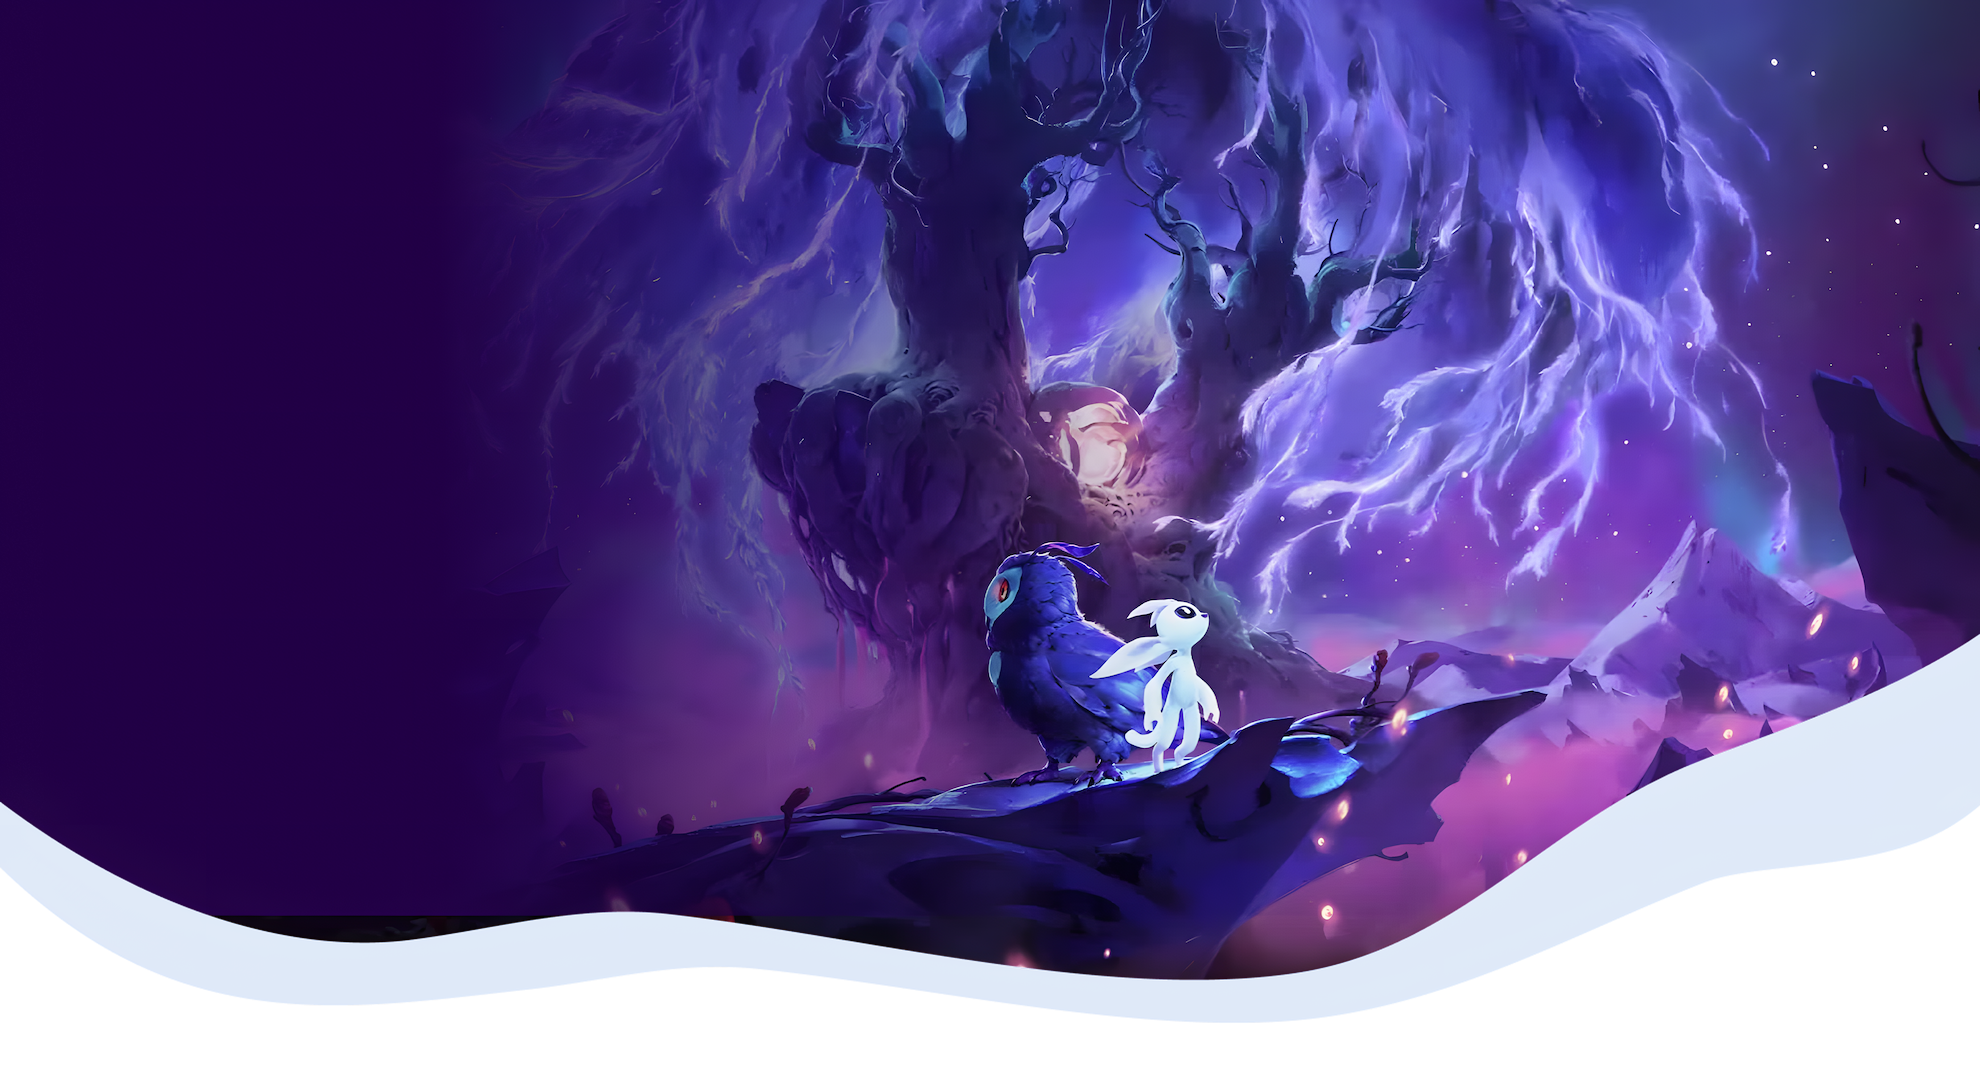
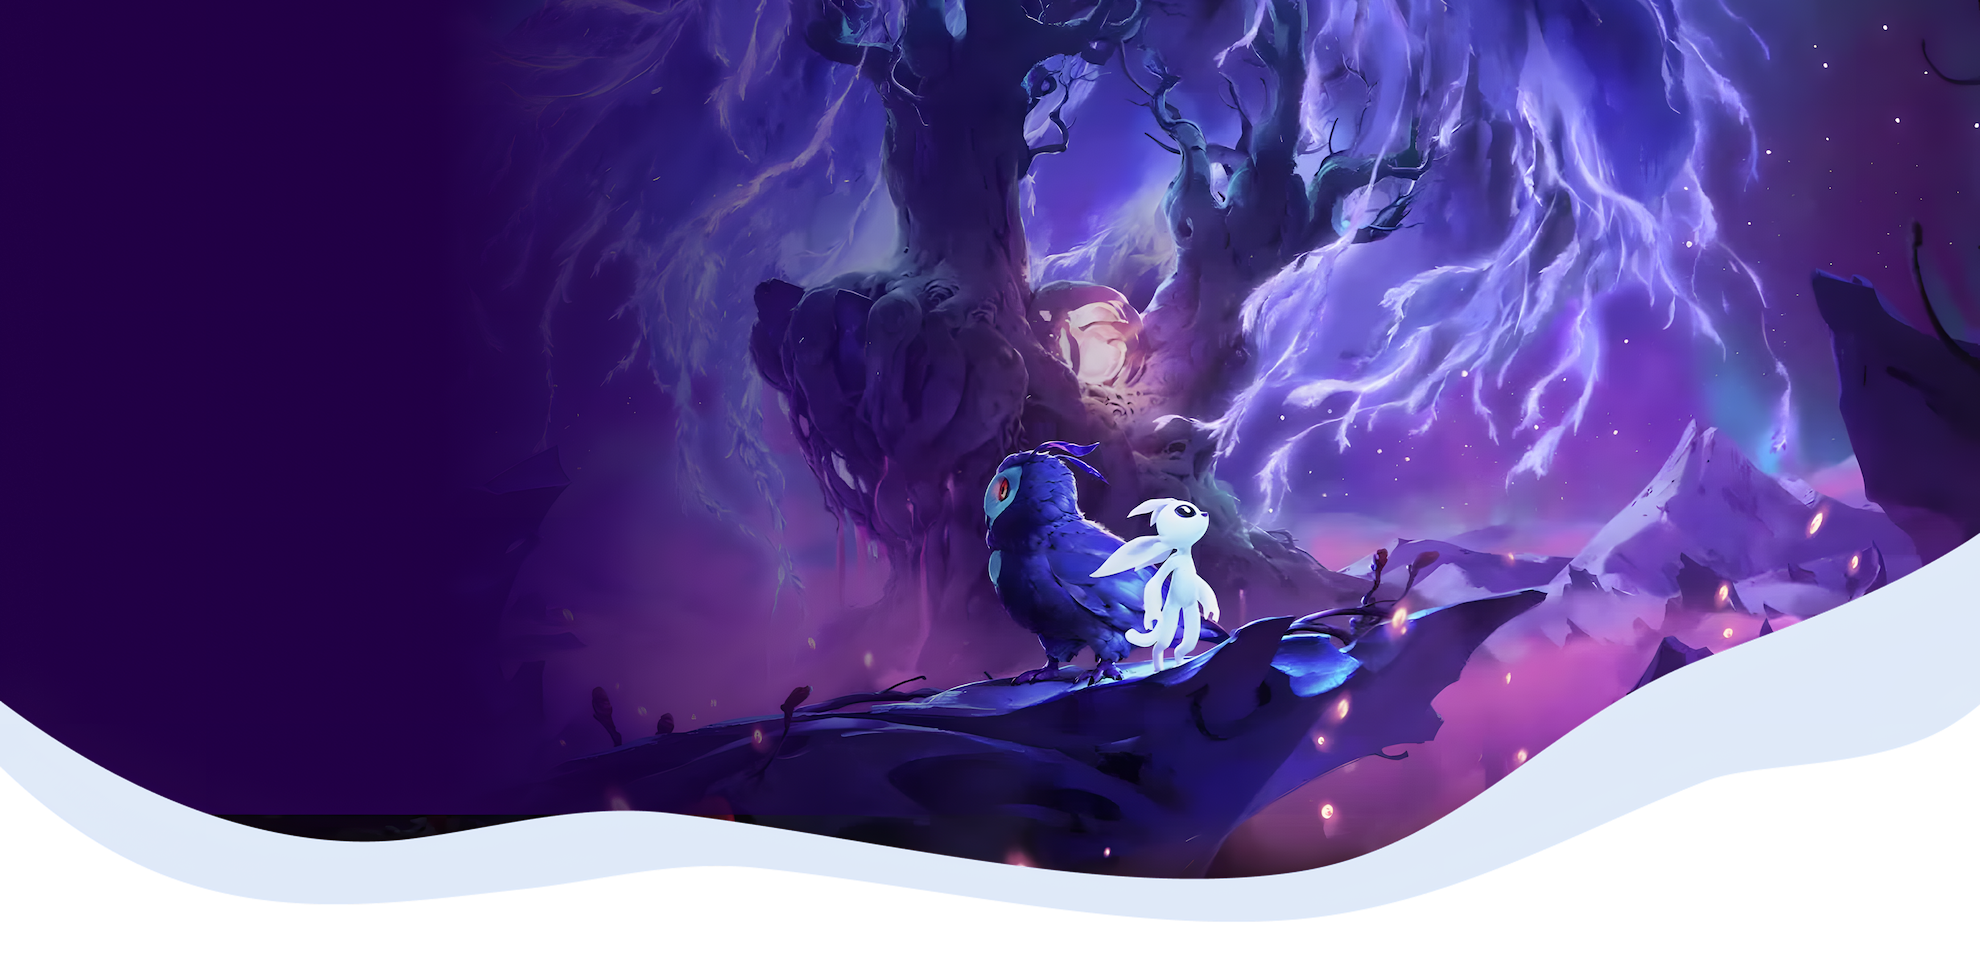
Slider new logic

diff --git a/components/Hero/hero.jsx b/components/Hero/hero.jsx
@@ -1,14 +1,16 @@
 "use client";
-// Import Swiper React components
-import { useState } from "react";
+import Image from "next/image";
 import { Swiper, SwiperSlide } from "swiper/react";
 import { Navigation, Autoplay, A11y } from "swiper/modules";
 import styles from "./hero.module.scss";
 
-// Import Swiper styles
 import "swiper/css";
 import "swiper/css/pagination";
 import "swiper/css/navigation";
+
+import image1 from "../../public/image-bg1.png";
+import image2 from "../../public/image-bg2.png";
+import image3 from "../../public/image-bg3.png";
 
 const Hero = () => {
   const buttons = () => {
@@ -41,6 +43,12 @@ const Hero = () => {
         >
           <SwiperSlide>
             <div className={`${styles.slide} ${styles.slide_first}`}>
+              <Image
+                src={image1}
+                alt="Ori"
+                placeholder="blur"
+                className={`${styles.image} `}
+              />
               <div className={styles.thumb}>
                 <h1 className={styles.title}>
                   STAN’S ASSETS - IT OUTSOURCING DEVELOPMENT COMPANY
@@ -62,6 +70,12 @@ const Hero = () => {
           </SwiperSlide>
           <SwiperSlide>
             <div className={`${styles.slide} ${styles.slide_second}`}>
+              <Image
+                src={image2}
+                alt="Tin Hearts"
+                className={styles.image}
+                placeholder="blur"
+              />
               <div className={styles.thumb}>
                 <h2 className={styles.title}>
                   FOCUS ON THE PRODUCT AND LET US DO THE REST!
@@ -85,6 +99,12 @@ const Hero = () => {
           </SwiperSlide>
           <SwiperSlide>
             <div className={`${styles.slide} ${styles.slide_third}`}>
+              <Image
+                src={image3}
+                alt="Stickman"
+                className={styles.image}
+                placeholder="blur"
+              />
               <div className={styles.thumb}>
                 <h2 className={styles.title}>
                   PRODUCT PERFECTION MADE EASY - STAN’S ASSETS, YOUR OUTSOURCING

diff --git a/src/app/page.jsx b/src/app/page.jsx
@@ -3,6 +3,7 @@ import Hero from "../../components/Hero/hero";
 import Technologies from "../../components/Technologies/technologies";
 import Services from "../../components/Services/services";
 import Looking from "../../components/Looking/looking";
+import Achievements from "../../components/Achievements/achievements";
 
 const Home = () => {
   return (
@@ -14,6 +15,7 @@ const Home = () => {
       <Technologies />
       <Services />
       <Looking />
+      <Achievements />
     </>
   );
 };

diff --git a/components/Hero/hero.module.scss b/components/Hero/hero.module.scss
@@ -3,6 +3,7 @@
 
 .hero {
   height: 940px;
+
   @extend %no-padding;
 }
 
@@ -24,16 +25,16 @@
   background-size: cover;
 }
 
-.slide_first {
-  background-image: url("../../public/image-bg1.png");
+.image {
+  position: absolute;
+  top: 0;
+  left: 0;
+
+  z-index: -1;
 }
 
-.slide_second {
-  background-image: url("../../public/image-bg2.png");
-}
-
-.slide_third {
-  background-image: url("../../public/image-bg3.png");
+.big_image {
+  top: -60px;
 }
 
 .thumb {

diff --git a/components/Achievements/achievements.jsx b/components/Achievements/achievements.jsx
@@ -1,0 +1,19 @@
+import Image from "next/image";
+
+const Achievements = () => {
+  return (
+    <section>
+      <div>
+        <h3>ACHIEVEMENTS</h3>
+        <ul>
+          <li><></></li>
+          <li></li>
+          <li></li>
+          <li></li>
+        </ul>
+      </div>
+    </section>
+  );
+};
+
+export default Achievements;

diff --git a/components/Looking/looking.module.scss b/components/Looking/looking.module.scss
@@ -3,8 +3,8 @@
 
 .thumb {
   width: 100%;
-  padding-top: 120px;
-  padding-bottom: 190px;
+  padding-top: 140px;
+  padding-bottom: 170px;
 
   background-repeat: no-repeat;
   background-size: cover;

diff --git a/components/Achievements/achievements.module.scss b/components/Achievements/achievements.module.scss
@@ -1,0 +1,2 @@
+@import "../../src/utils/placeholders.module.scss";
+@import "../../src/utils/variables.module.scss";
